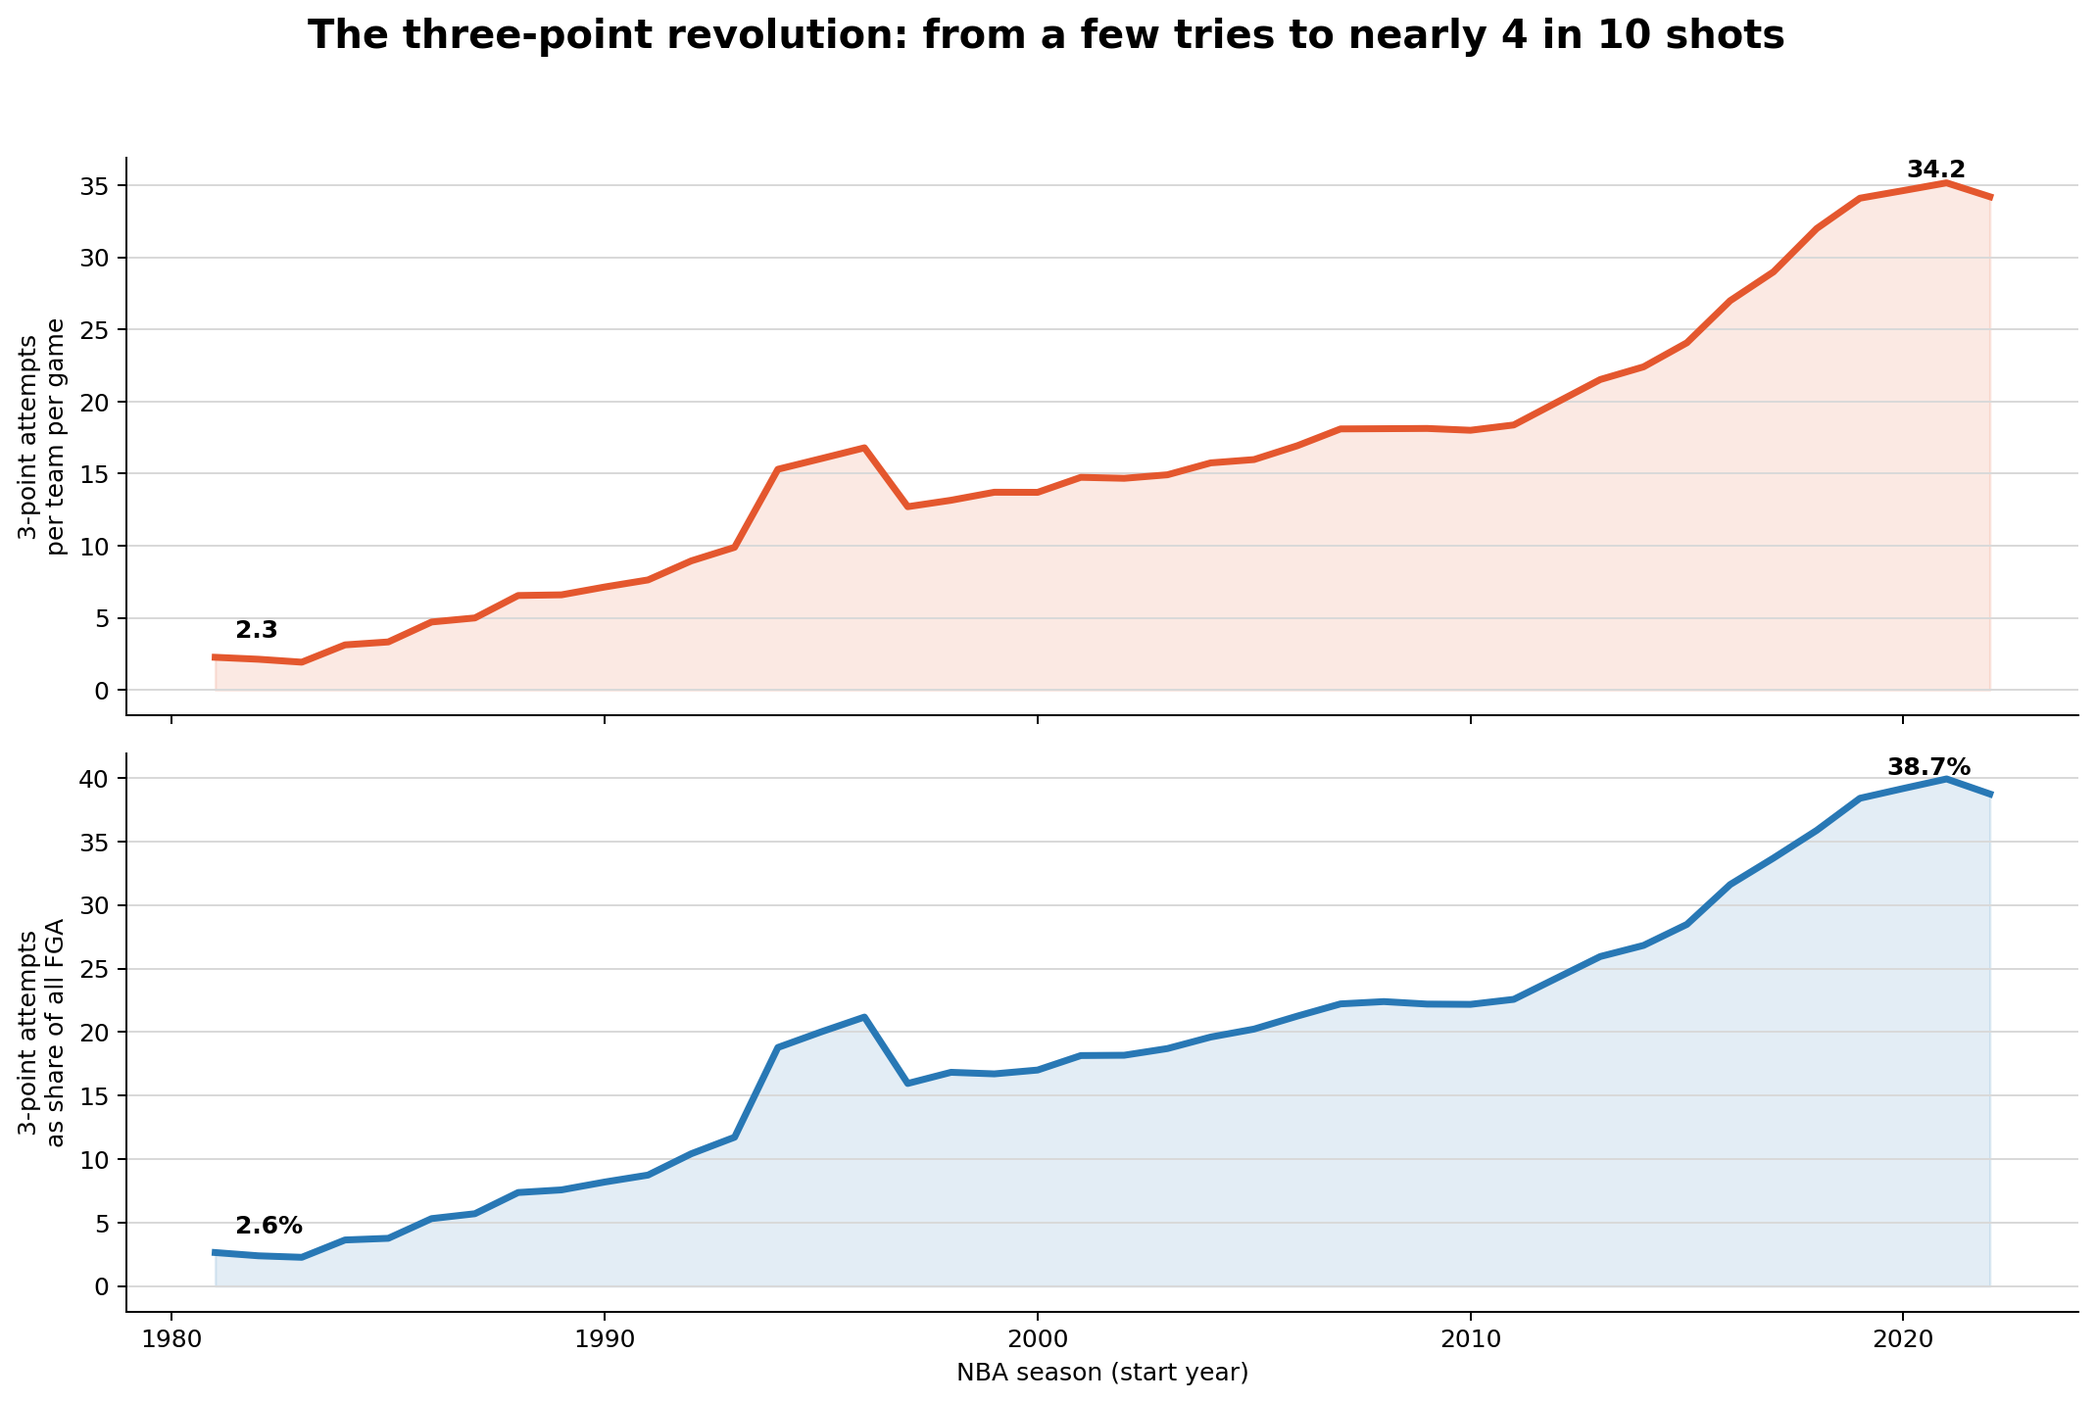
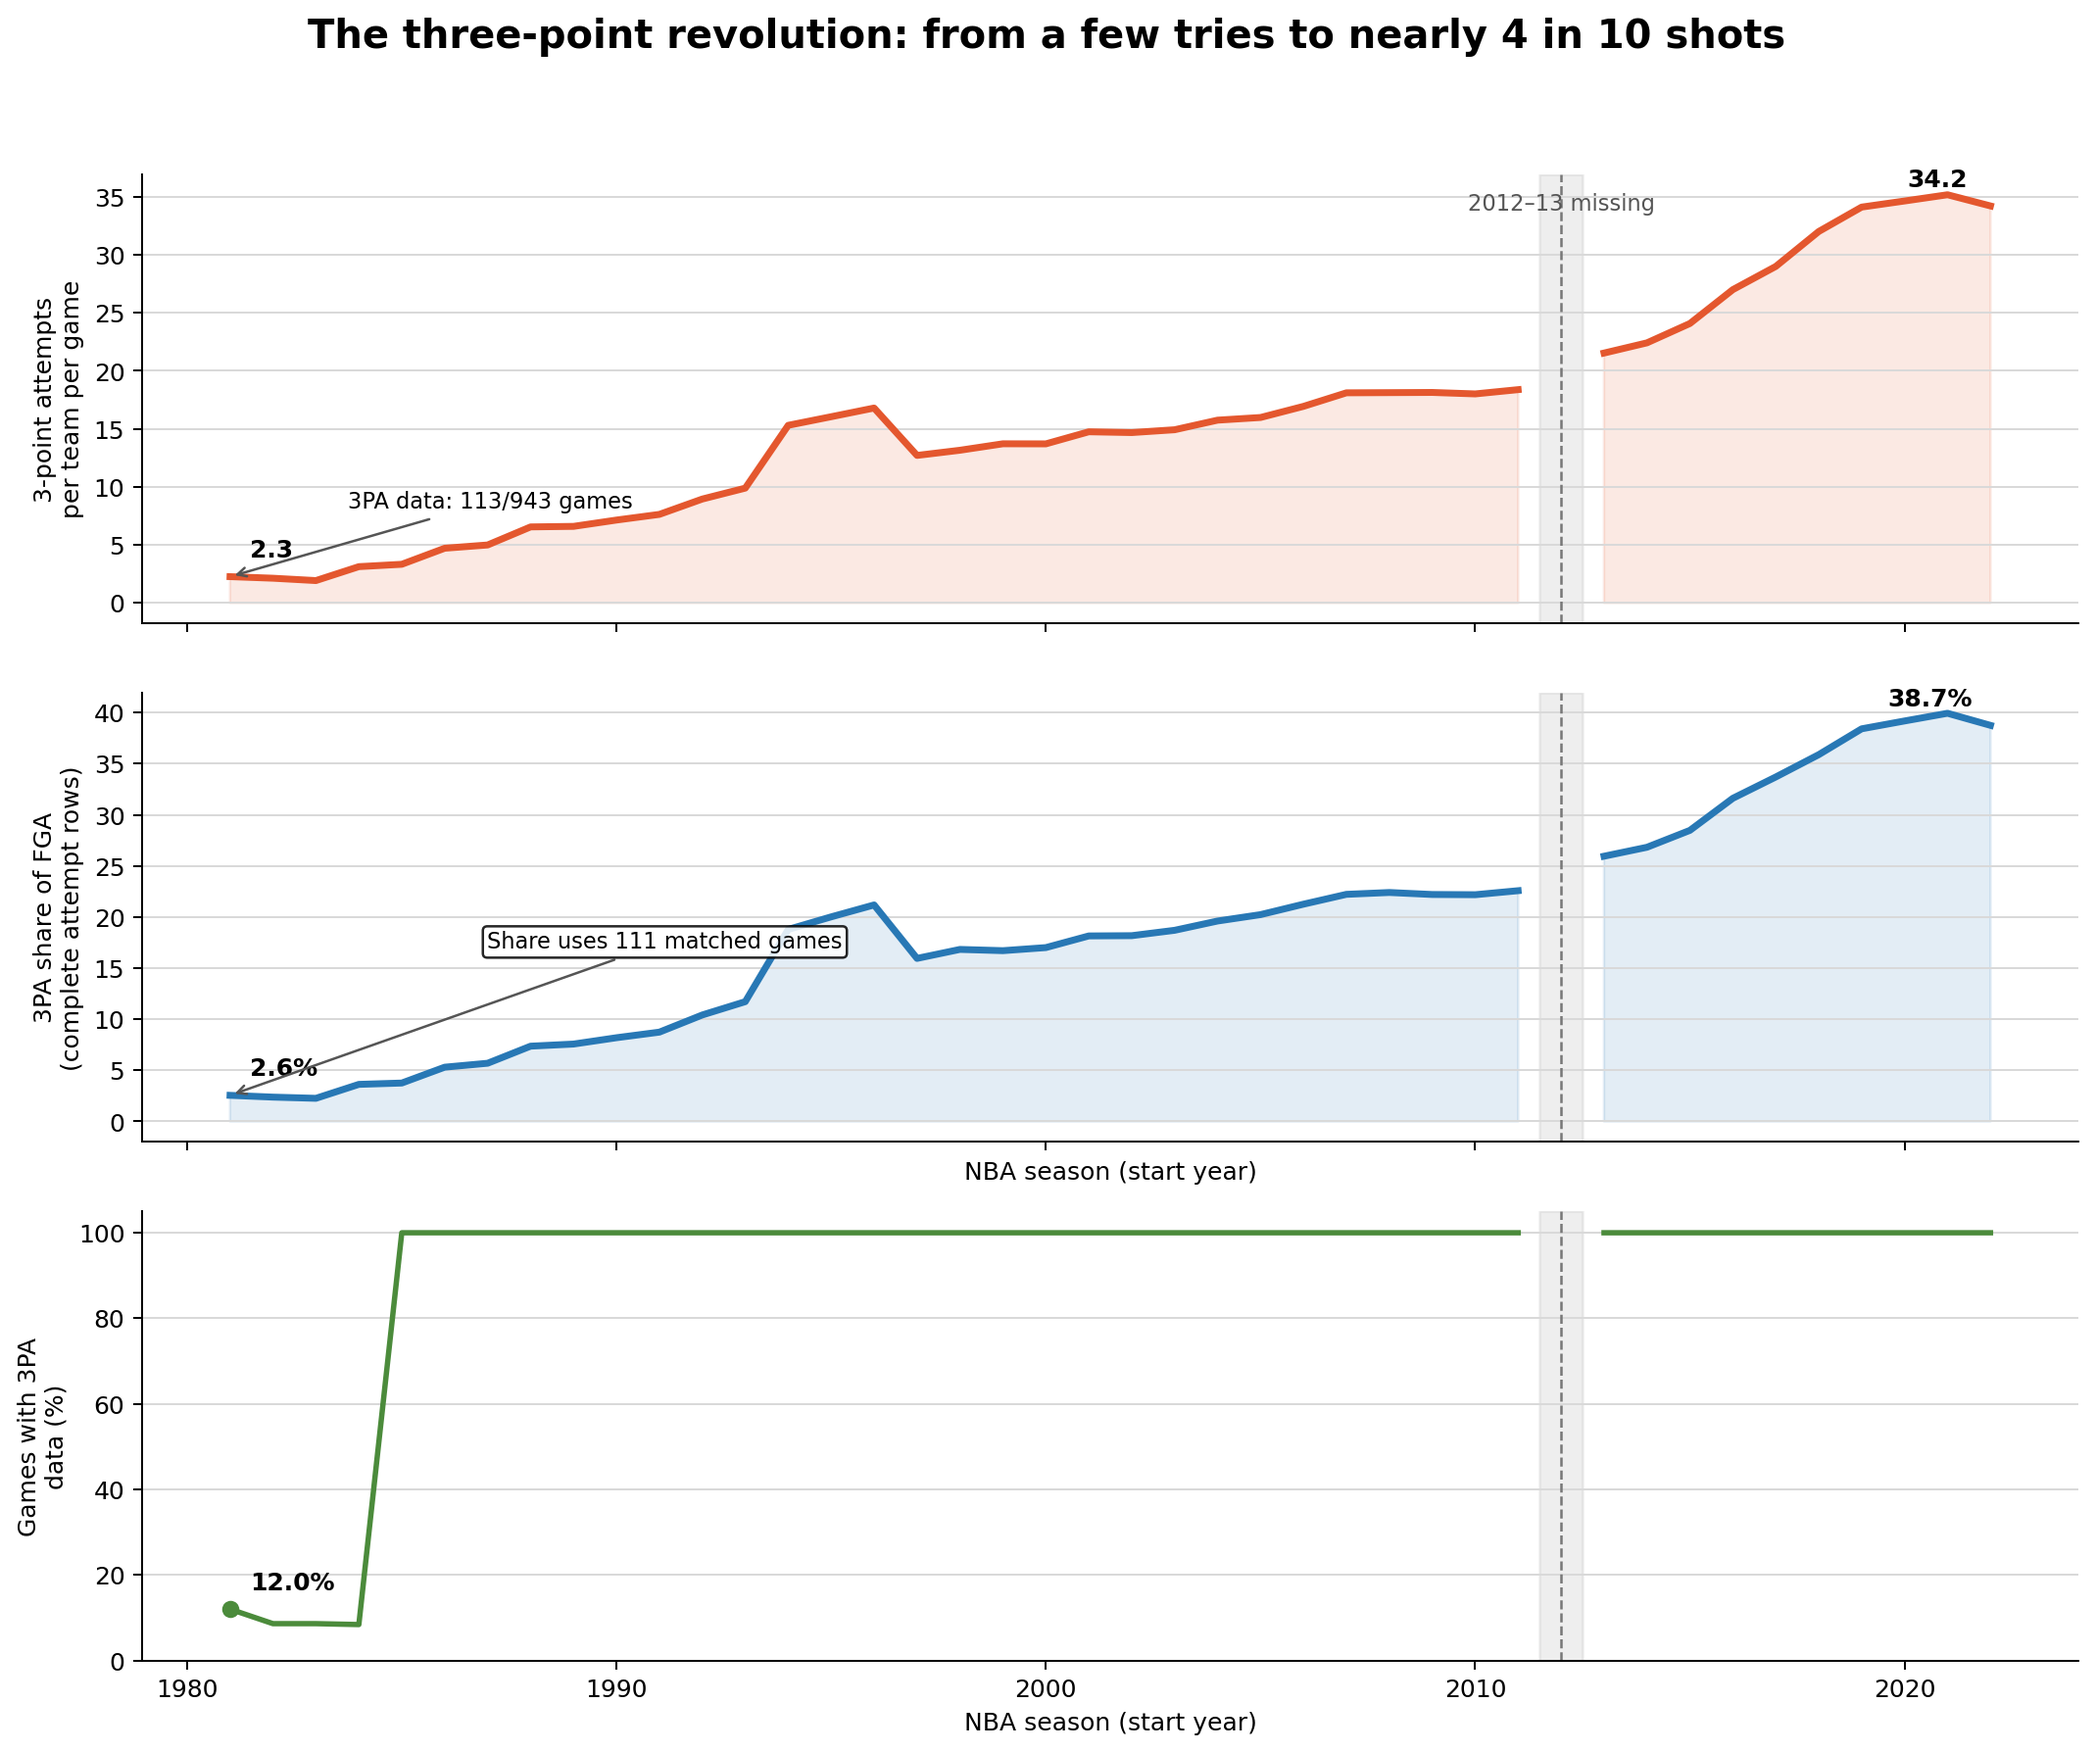
Refine insight 2 data coverage

diff --git a/nba/insight_2_viz.py b/nba/insight_2_viz.py
@@ -11,14 +11,15 @@ def plot_three_point_trend(
     trend: pd.DataFrame,
     output_path: str | Path = "figures/insight_2_three_point_revolution.png",
 ) -> Figure:
-    """Plot per-team attempts and the share of shots taken from three."""
+    """Plot attempts, shot share and data coverage for each season."""
     if trend.empty:
         raise ValueError("The trend dataframe is empty.")
 
-    fig, axes = plt.subplots(2, 1, figsize=(12, 8), sharex=True)
+    fig, axes = plt.subplots(3, 1, figsize=(12, 10), sharex=True)
     years = trend["season_start_year"]
     attempts = trend["avg_three_pa_per_team_game"]
     share = trend["three_pa_share_pct"]
+    coverage = trend["three_pa_data_coverage_pct"]
 
     axes[0].plot(years, attempts, color="#e4572e", linewidth=2.8)
     axes[0].fill_between(years, attempts, color="#e4572e", alpha=0.13)
@@ -37,10 +38,21 @@ def plot_three_point_trend(
         textcoords="offset points",
         fontweight="bold",
     )
+    first = trend.iloc[0]
+    matched_games = int(first["games_with_complete_attempts"])
+    axes[0].annotate(
+        f"3PA data: {int(first['games_with_3pa_data'])}/"
+        f"{int(first['games_in_database'])} games",
+        (years.iloc[0], attempts.iloc[0]),
+        xytext=(48, 28),
+        textcoords="offset points",
+        arrowprops={"arrowstyle": "->", "color": "#555555"},
+        fontsize=9,
+    )
 
     axes[1].plot(years, share, color="#2878b5", linewidth=2.8)
     axes[1].fill_between(years, share, color="#2878b5", alpha=0.13)
-    axes[1].set_ylabel("3-point attempts\nas share of all FGA")
+    axes[1].set_ylabel("3PA share of FGA\n(complete attempt rows)")
     axes[1].set_xlabel("NBA season (start year)")
     axes[1].annotate(
         f"{share.iloc[0]:.1f}%",
@@ -48,6 +60,48 @@ def plot_three_point_trend(
         xytext=(8, 8),
         textcoords="offset points",
         fontweight="bold",
+    )
+    axes[1].annotate(
+        f"Share uses {matched_games} matched games",
+        (years.iloc[0], share.iloc[0]),
+        xytext=(105, 60),
+        textcoords="offset points",
+        arrowprops={"arrowstyle": "->", "color": "#555555"},
+        bbox={
+            "boxstyle": "round,pad=0.2",
+            "facecolor": "white",
+            "alpha": 0.85,
+        },
+        fontsize=9,
+    )
+
+    axes[2].plot(years, coverage, color="#4b8b3b", linewidth=2.2)
+    axes[2].scatter(years.iloc[0], coverage.iloc[0], color="#4b8b3b", zorder=3)
+    axes[2].set_ylabel("Games with 3PA\ndata (%)")
+    axes[2].set_xlabel("NBA season (start year)")
+    axes[2].set_ylim(0, 105)
+    axes[2].annotate(
+        f"{coverage.iloc[0]:.1f}%",
+        (years.iloc[0], coverage.iloc[0]),
+        xytext=(8, 8),
+        textcoords="offset points",
+        fontweight="bold",
+    )
+
+    # The calendar row has null metrics for the absent 2012-13 season, so
+    # matplotlib leaves a visible break in each line across that season.
+    for axis in axes:
+        axis.axvspan(2011.5, 2012.5, color="#777777", alpha=0.12)
+        axis.axvline(2012, color="#777777", linestyle="--", linewidth=1)
+    axes[0].text(
+        2012,
+        0.96,
+        "2012–13 missing",
+        transform=axes[0].get_xaxis_transform(),
+        ha="center",
+        va="top",
+        fontsize=9,
+        color="#555555",
     )
     axes[1].annotate(
         f"{share.iloc[-1]:.1f}%",

diff --git a/nba/insight_2.py b/nba/insight_2.py
@@ -20,14 +20,17 @@ def three_point_trend(connection: sqlite3.Connection) -> pd.DataFrame:
     return trend
 
 
-def three_point_summary(trend: pd.DataFrame) -> dict[str, float | str]:
+def three_point_summary(
+    trend: pd.DataFrame,
+) -> dict[str, float | int | str]:
     """Summarise the first-to-last season change in three-point shooting."""
-    if trend.empty:
+    observed = trend.dropna(subset=["avg_three_pa_per_team_game"])
+    if observed.empty:
         raise ValueError(
             "No seasons with three-point attempt data were found."
         )
-    first = trend.iloc[0]
-    last = trend.iloc[-1]
+    first = observed.iloc[0]
+    last = observed.iloc[-1]
     return {
         "first_season": str(first["season"]),
         "last_season": str(last["season"]),
@@ -35,6 +38,12 @@ def three_point_summary(trend: pd.DataFrame) -> dict[str, float | str]:
         "last_attempts": float(last["avg_three_pa_per_team_game"]),
         "first_share_pct": float(first["three_pa_share_pct"]),
         "last_share_pct": float(last["three_pa_share_pct"]),
+        "first_games_in_database": int(first["games_in_database"]),
+        "first_games_with_3pa_data": int(first["games_with_3pa_data"]),
+        "first_games_with_complete_attempts": int(
+            first["games_with_complete_attempts"]
+        ),
+        "first_coverage_pct": float(first["three_pa_data_coverage_pct"]),
         "attempts_multiple": float(
             last["avg_three_pa_per_team_game"]
             / first["avg_three_pa_per_team_game"]
